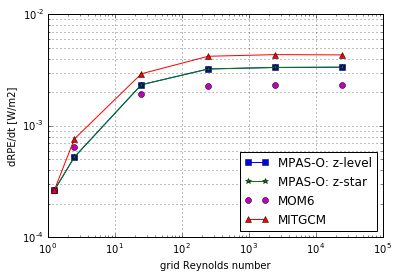
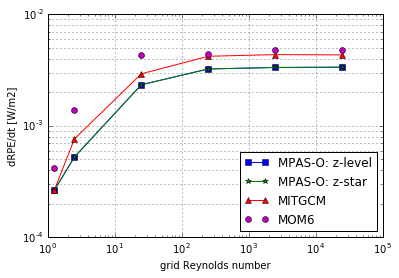
[writing]: Lock exchange notes and updated figures

diff --git a/writing/paper/lock-exchange.md b/writing/paper/lock-exchange.md
@@ -4,29 +4,36 @@ classoption: twocolumn
 
 ## Lock Exchange
 
+- explain that this is replicating test cases/parameters of Ilicak
+- specify spatial dimensions, run duration, resolution
+
 The lock exchange test case is a simple configuration that shows the creation of intermediate densities by spurious mixing. It is defined by an initial temperature distribution comprised of one density class on each side of the domain,
 
 $$\Theta(x) = \begin{cases}
 5 & x < 32\text{ km}\\
 30 & x \ge 32\text{ km}\end{cases}.$$
 
-This case is equivalent to two adjacent basins, each at constant temperature, with a dam between them that is removed at $T=0$. The warm water from the right basin flows from right-to-left above cold water, while conversely cold water from the left basin flows underneath the warm water from left-to-right. This is simply a gravity current, for which we have a theoretical prediciotn for the front velocity in a rectangular channel, given by
+This case is equivalent to two adjacent basins, each at constant temperature, with a dam between them that is removed at $T=0$. The warm water from the right basin flows from right-to-left above cold water, while conversely cold water from the left basin flows underneath the warm water from left-to-right. This is simply a gravity current, for which we have a theoretical prediction for the front velocity in a rectangular channel, given by
 
-$$u_f = \frac12 \sqrt{gH \dot \rho}$$
+$$u_f = \frac12 \sqrt{gH \rho'}$$
 
-When calculating the grid Reynolds number, the theoretical front velocity is used instead of the actual mean velocity of the domain. All runs were carried out using a baroclinic timestep that satisfied CFL conditions across the range of horizontal viscosities ($\nu_h = 0.01, 0.1, 1, 10, 100, 200$).
+When calculating the grid Reynolds number, the theoretical front velocity is used instead of the actual mean velocity over the domain. All runs were carried out using a baroclinic timestep that satisfied CFL conditions across the range of horizontal viscosities ($\nu_h = 0.01, 0.1, 1, 10, 100, 200\,\text{m}^2\text{s}^{-1}$).
 
 ![\label{fig:rpenorm} Normalised RPE evolution for $\nu_h = 0.01$](plots/lock_exchange_rpe_norm.png)
 
-![\label{fig:drpe} Average rate of RPE change](plots/lock_exchange_drpe.png)
+![\label{fig:drpe} RPE change at 17h](plots/lock_exchange_drpe.png)
 
 The time series of normalised RPE in Figure \ref{fig:rpenorm} shows MOM6 having a similar shape to MitGCM and MOM5. Curiously, it appears as though the magnitude of RPE is higher in MOM6 than the other models, contradicting the result shown in Figure \ref{fig:drpe}. One possible explanation is that the RPE of the initial state by which MOM6 is normalised is less than that of the other models. However, the RPE rate of change calculation uses the non-normalised RPE and shows the true behaviour.
 
+- possibly easy hypothesis to check
+
 Below a grid Reynolds number of 10, MOM6 performs very similarly to the other models shown in Figure \ref{fig:drpe}. At this point, the models are running under the threshold for saturation of spurious mixing. However, in the limit of saturated spurious mixing, MOM6 exhibits a slightly lower averaged RPE rate of change. This suggests that MOM6 may tolerate a lower viscosity than other models of the same class.
+
+- talk about mixing saturation earlier
 
 ### Advection order
 
-One aspect of model configuration that may significantly affect spurious mixing is the order of accuracy of the tracer advection scheme in. A higher-order advection scheme purports to reduce the spurious mixing in advection, at the cost of runtime performance. Curiously, the two advection schemes in MOM6, PLM (piecewise linear) and PPM:H3 (Huynh third order piecewise parabolic), exhibit nearly identical spurious mixing. In order to preserve the pre-existing range of density classes by avoiding the creation of spurious minima or maxima, advection schemes may employ limiters. In MOM6, the limiting scheme reduces to a first-order upstream method. The minimal difference in spurious mixing despite an improved advection scheme implies that advection may be dominated by a limiter at the front, where spurious mixing is most vigorous.
+One aspect of model configuration that may significantly affect spurious mixing is the order of accuracy of the tracer advection scheme. A higher-order advection scheme purports to reduce the spurious mixing in advection, at the cost of runtime performance. Curiously, the two advection schemes in MOM6, PLM (piecewise linear) and PPM:H3 (Huynh third order piecewise parabolic), exhibit nearly identical spurious mixing. In order to preserve the pre-existing range of density classes by avoiding the creation of spurious minima or maxima, advection schemes may employ limiters. In MOM6, the limiting scheme reduces to a first-order upstream method. The minimal difference in spurious mixing despite an improved advection scheme implies that advection may be dominated by a limiter at the front, where spurious mixing is most vigorous.
 
 ### Directional split
 
@@ -37,5 +44,7 @@ Figure \ref{fig:rpesplit} shows that the mixing is predominantly due to horizont
 From a physical viewpoint, we expect RPE to be an increasing quantity. However, Figure \ref{fig:rpesplit} shows that the vertical process of regridding/remapping causes a small RPE decrease in these experiments. We illustrate a simple example that demonstrates how the combination of regridding/remapping may create a decrease in total potential energy. For a single column case, this is equivalent to the RPE, assuming no density inversions.
 
 ![A schematic demonstrating the ability for regridding/remapping to cause a decrease in RPE](plots/schematic.png)
+
+- rotate to vertical
 
 The solid rectangles show the grid cells after advection, where the column bottom is at $z = 0$. Regridding moves the interface between the cells to the dashed line, and remapping mixes the quantity $u'$ from the right cell to the left cell. With the condition that $u_1 > u_2$ (stable stratification), it is possible for $PE_f - PE_i < 0$ when the remapping is higher order than piecewise constant (PCM). PCM is the lowest order reconstruction, and gives $u' = u_1 \Delta h$, thus $PE_f - PE_i \ge 0$.
